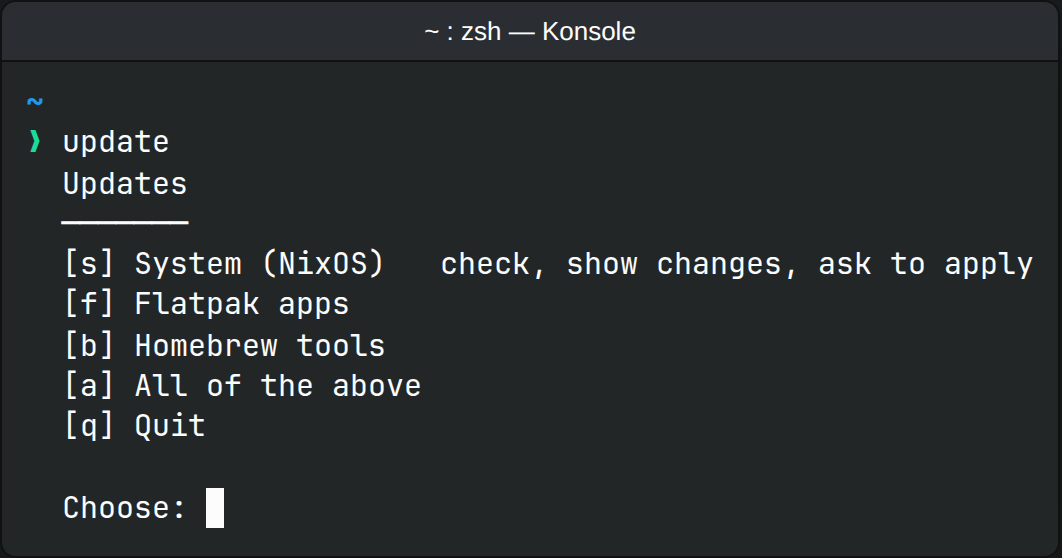
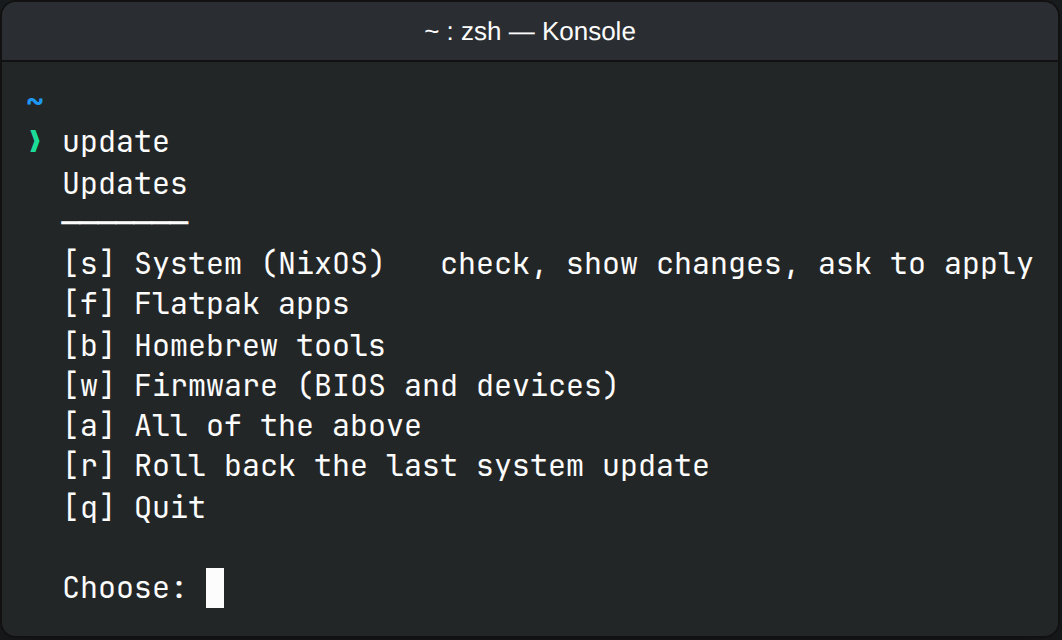
feat: backup-setup, firmware and rollback in `update`, oomd, Breeze Dark, Flatpaks (v35)
- backup-setup: generates the restic password (shown once, stored root-only),
  formats a chosen USB partition as ext4 labelled BACKUP after typed
  confirmation (USB drives only), mounts /mnt/backup and runs the first
  backup. The /mnt/backup fileSystems entry (nofail) is now enabled. The
  stale-backup warning points to backup-setup.
- update: [w] firmware (fwupdmgr get-updates/update, asks first) and
  [r] roll back (nixos-rebuild switch --rollback after a yes).
- systemd.oomd.enableUserSlices: close runaway apps instead of freezing.
- Plasma: Breeze Dark color scheme and Plasma style; gas-masks.jpg on the
  desktop, lock screen and SDDM login screen, set once in desktop.nix.
- Flatpaks: Chrome, VLC, Flatseal, qBittorrent.
- README: new sections for all of the above; update menu image refreshed;
  restic-home commands need sudo (root-only password file).

Claude-Session: https://claude.ai/code/session_012zc3uoWZdh13ef544Wr7e5

diff --git a/README.md b/README.md
@@ -4,13 +4,15 @@ Austin's flake-based NixOS 26.05 + Home Manager config for **shitbox**, an
 HP Laptop 14-ep0xxx (Intel Gen12 graphics, LUKS-encrypted NVMe) running
 Plasma 6.
 
-**Current version: v34** (git tag `v34`). See [Versions](#versions).
+**Current version: v35** (git tag `v35`). See [Versions](#versions).
 
 ## What's in it
 
-- **Desktop:** Plasma 6 on SDDM (Wayland), PipeWire, declarative Flatpak
-  apps from Flathub, Plasma/Konsole settings in the config (plasma-manager),
-  extra wallpapers built into the system,
+- **Desktop:** Plasma 6 on SDDM (Wayland) in Breeze Dark, PipeWire,
+  declarative Flatpak apps from Flathub (Chrome, VLC, Flatseal,
+  qBittorrent), Plasma/Konsole settings in the config (plasma-manager),
+  extra wallpapers built into the system with one set on the desktop, lock
+  and login screens,
   Bluetooth via Plasma's BlueDevil, printing with automatic network-printer
   discovery (Avahi/mDNS), Noto + JetBrains Mono Nerd Font. Plasma's
   screen reader (Orca), text-to-speech service and KDE PIM backend
@@ -18,7 +20,8 @@ Plasma 6.
 - **Hardware:** systemd-boot with the boot-menu editor locked, a graphical
   Breeze boot splash that also shows the disk password prompt (Plymouth),
   systemd initrd, LUKS with TRIM passed through to the SSD, zram swap with the
-  kernel tuned for it (as on Fedora and Pop!_OS),
+  kernel tuned for it (as on Fedora and Pop!_OS), systemd-oomd closing a
+  runaway app before memory pressure freezes the desktop,
   power-profiles-daemon + thermald, fwupd, and Intel VA-API/QSV drivers so
   video decodes on the GPU. Closing the lid suspends on battery and does
   nothing on AC.
@@ -117,10 +120,11 @@ searches text, `<Space>fb` lists open buffers.
 Nothing updates on its own. Run `update` (it's in the welcome banner)
 whenever you want to check:
 
-<img src="docs/screenshots/update-menu.png" alt="The update menu: [s] System (NixOS), [f] Flatpak apps, [b] Homebrew tools, [a] All of the above, [q] Quit" width="531">
+<img src="docs/screenshots/update-menu.png" alt="The update menu: [s] System (NixOS), [f] Flatpak apps, [b] Homebrew tools, [w] Firmware, [a] All of the above, [r] Roll back the last system update, [q] Quit" width="531">
 
 Or skip the menu: `update system`, `update flatpak`, `update brew`,
-`update all`. Each part asks before it changes anything.
+`update firmware`, `update all`, `update rollback`. Each part asks before it
+changes anything.
 
 - **[s] System** (`update-system`, in `modules/updates.nix`):
   1. Runs `git pull` in `~/nixos-config`, so changes pushed from elsewhere
@@ -140,6 +144,16 @@ Or skip the menu: `update system`, `update flatpak`, `update brew`,
   is still applied, and it prints the two commands to push later.
 - **[f] Flatpak** runs `flatpak update`, which lists pending updates and
   asks before installing them. System-wide apps may ask for your password.
+- **[w] Firmware** (`update-firmware`) asks fwupd for BIOS and device
+  firmware updates from the LVFS, and `fwupdmgr update` asks before
+  installing and before any reboot. Many HP consumer laptops get none, in
+  which case it says so.
+- **[r] Roll back** (`update-rollback`) lists the last few system versions
+  and, after a yes, switches back to the one before the current one (the
+  same as choosing it in the boot menu, but it stays the default). Your
+  `~/nixos-config` still holds the newer version, so the next `rebuild` or
+  `update` returns to it; to stay back, undo the change there (for
+  example `git revert HEAD`) and push.
 - **[b] Homebrew** (`brew-update`, in `modules/homebrew.nix`) installs
   Homebrew the first time (after asking), runs `brew update`, then lists
   formulas that are missing, outdated, or installed but not in the
@@ -259,47 +273,48 @@ saves) are kept. Retention is 7 daily, 4 weekly, and 6 monthly snapshots.
 
 ### One-time setup
 
-The restic job skips silently until both steps are done (by design):
+Run **`backup-setup`** in a terminal once. It walks through three steps and
+explains each one:
 
-1. **Create the repo password — and store a copy OFF this machine.** Losing
-   it makes every backup unreadable, permanently:
+1. **The password.** It generates the repository password, shows it once,
+   and waits until you type `saved`. Store it somewhere OFF this laptop
+   (password manager, printed sheet): losing it makes every backup
+   unreadable, permanently. It's kept in `/etc/secrets/restic-password`,
+   readable by root only.
+2. **The drive.** Plug in an external USB drive. It lists USB drives only,
+   asks which partition to use, and asks you to type the name again before
+   erasing it and formatting it as ext4 labelled `BACKUP`. A drive already
+   labelled `BACKUP` is used as is.
+3. **The first backup.** It mounts the drive at `/mnt/backup` and, if you
+   say yes, runs the first backup and lists the snapshot.
 
-   ```bash
-   sudo mkdir -p /etc/secrets && sudo chmod 700 /etc/secrets
-   head -c 32 /dev/urandom | base64 | sudo tee /etc/secrets/restic-password
-   sudo chmod 600 /etc/secrets/restic-password
-   ```
+After that, the daily job runs whenever the drive is plugged in and mounted.
+The drive mounts at boot when it's plugged in; boot carries on normally
+without it (`nofail`). After plugging it in later: `sudo mount /mnt/backup`.
+Until setup is done, the job skips quietly (and the warning below reminds
+you).
 
-2. **Provide the target.** Default expects an external drive at `/mnt/backup`:
-   label a partition `BACKUP` and uncomment the `fileSystems."/mnt/backup"`
-   block in `modules/backup.nix` (uses `nofail`, so boot is unaffected when
-   the drive is absent; plug in later → `sudo mount /mnt/backup`). For a
-   remote target, set `repository = "sftp:user@host:/path"` and drop the
-   `ConditionPathIsMountPoint` line.
+Check and restore (as root, since the password file is root-only):
 
-3. **First run + verify:**
+```bash
+sudo restic-home snapshots
+sudo restic-home restore latest --target /tmp/restore --include /home/austin/Documents
+```
 
-   ```bash
-   sudo systemctl start restic-backups-home
-   restic-home snapshots
-   ```
+Each run ends with `restic check`, so repository corruption shows up as a
+failed `restic-backups-home` unit. For a deeper check that re-reads a
+sample of the data: `sudo restic-home check --read-data-subset=5%`.
 
-   Restore example:
-
-   ```bash
-   restic-home restore latest --target /tmp/restore --include /home/austin/Documents
-   ```
-
-   Each run ends with `restic check`, so repository corruption shows up as a
-   failed `restic-backups-home` unit. For a deeper check that re-reads a
-   sample of the data: `restic-home check --read-data-subset=5%`.
+For a remote target instead of a drive, set `repository =
+"sftp:user@host:/path"` in `modules/backup.nix` and drop the
+`ConditionPathIsMountPoint` line.
 
 ### Stale-backup warning
 
 Because the job skips silently whenever the drive isn't mounted, a desktop
 notification warns you instead: shortly after login and once a day, if the
 last successful backup is more than 7 days old, or if there has never been
-one (so it also reminds you to finish the setup above). Each fully
+one (then it tells you to run `backup-setup`). Each fully
 successful run (backup, prune, and check) touches
 `/var/lib/restic-home-last-success`, which is what the warning reads.
 
@@ -379,7 +394,8 @@ services.flatpak.packages = [
   which retries with a growing delay while offline.
 - Nothing updates automatically: `update` ([f]) runs `flatpak update` for
   listed and hand-installed apps alike, and asks first.
-- The list starts empty, and `uninstallUnmanaged = false` leaves apps you
+- Listed now: Google Chrome, VLC, Flatseal (manages Flatpak app
+  permissions) and qBittorrent. `uninstallUnmanaged = false` leaves apps you
   installed by hand (Discover, `flatpak install`) alone. Once every app you
   want is listed, set it to `true` to make the list authoritative; unlisted
   apps are then removed.
@@ -395,10 +411,11 @@ drop a JPEG or PNG into `wallpapers/`, commit it and rebuild; to remove one,
 delete the file. Keep images to a few MB, since git keeps every version of
 them forever.
 
-Nothing is set as the default; pick one in the picker. To set it from the
-config instead, or to rotate through the folder as a slideshow, use
-plasma-manager's `workspace.wallpaper` or `workspace.wallpaperSlideShow` in
-`home/austin/plasma.nix`.
+**The default** is `gas-masks.jpg`, on the desktop, the lock screen and the
+login screen. It's set once, as `wallpaper` at the top of
+`modules/desktop.nix`; change the file name there to switch all three. The
+config applies it at the first login after a rebuild that changes it, so a
+wallpaper you pick by hand in System Settings stays until then.
 
 ## Plasma settings
 
@@ -407,16 +424,29 @@ plasma-manager's `workspace.wallpaper` or `workspace.wallpaperSlideShow` in
 writes the settings declared there; anything else you change in System
 Settings is left alone.
 
-Currently it sets up one thing: a Konsole profile named "NixOS" (Breeze
-colors, JetBrainsMono Nerd Font Mono 11), made Konsole's default. It also
-explicitly writes nothing to KRunner's web-shortcut settings, which
-plasma-manager would otherwise reset.
+What it sets now:
 
-To bring more of your desktop (panels, theme, shortcuts, power settings)
-into the config, run `nix run github:nix-community/plasma-manager`. It
-prints your current Plasma settings as Nix; copy the parts you want into
-`plasma.nix` and rebuild. Panels are all-or-nothing: once declared, the
-config replaces your whole panel layout on login, so capture it first.
+- **Breeze Dark**: the dark color scheme for apps and windows and the dark
+  Plasma style for the panel and widgets.
+- **Wallpapers** for the desktop and lock screen (declared in
+  `modules/desktop.nix`; see [Wallpapers](#wallpapers)).
+- **Konsole**: a profile named "NixOS" (Breeze colors, JetBrainsMono Nerd
+  Font Mono 11), made Konsole's default.
+- It explicitly writes nothing to KRunner's web-shortcut settings, which
+  plasma-manager would otherwise reset.
+
+**Capturing the rest of your desktop** (panels, shortcuts, power settings):
+on the laptop, run
+
+```bash
+nix run github:nix-community/plasma-manager > ~/plasma-current.nix
+```
+
+It prints your current Plasma settings as Nix. Copy the parts you want into
+`plasma.nix` and rebuild (keep the dump itself out of the repo: it isn't
+formatted or linted, so `nix flake check` would reject it). Panels are all-or-nothing:
+once declared, the config replaces your whole panel layout on login, so
+capture it first.
 
 ## Failure alerts
 
@@ -489,7 +519,8 @@ top of this README doesn't match it.
 
 | Version | Highlights |
 | --- | --- |
-| **v34** | Xwayland is the stock prebuilt package instead of being recompiled after every nixpkgs update (its legacy X11 core-font path is no longer set). CI's build cache, now with nothing slow to cache, is removed. |
+| **v35** | `backup-setup` walks through the one-time backup setup (password, drive, first backup), and the backup drive's mount is enabled; `update` gains [w] firmware and [r] roll back; systemd-oomd closes runaway apps before the desktop freezes; Breeze Dark with `gas-masks` on the desktop, lock and login screens; Flatpaks: Chrome, VLC, Flatseal, qBittorrent. |
+| v34 | Xwayland is the stock prebuilt package instead of being recompiled after every nixpkgs update (its legacy X11 core-font path is no longer set). CI's build cache, now with nothing slow to cache, is removed. |
 | v33 | Welcome banner: a small black-and-white NixOS logo beside the heading and system lines. |
 | v32 | Updates only when you ask: new `update` menu (system, Flatpak, Homebrew) that shows what would change and applies it on a yes; the system part bumps, tags and pushes the version itself. Homebrew's daily job, Flatpak's weekly auto-update and the weekly GitHub update PR are off. |
 | v31 | Slimmed down: Ghostty removed (Konsole is the terminal again), and Plasma's Orca screen reader, speech-dispatcher and KDE PIM backend (Akonadi) turned off, about 1.1 GB less. |
